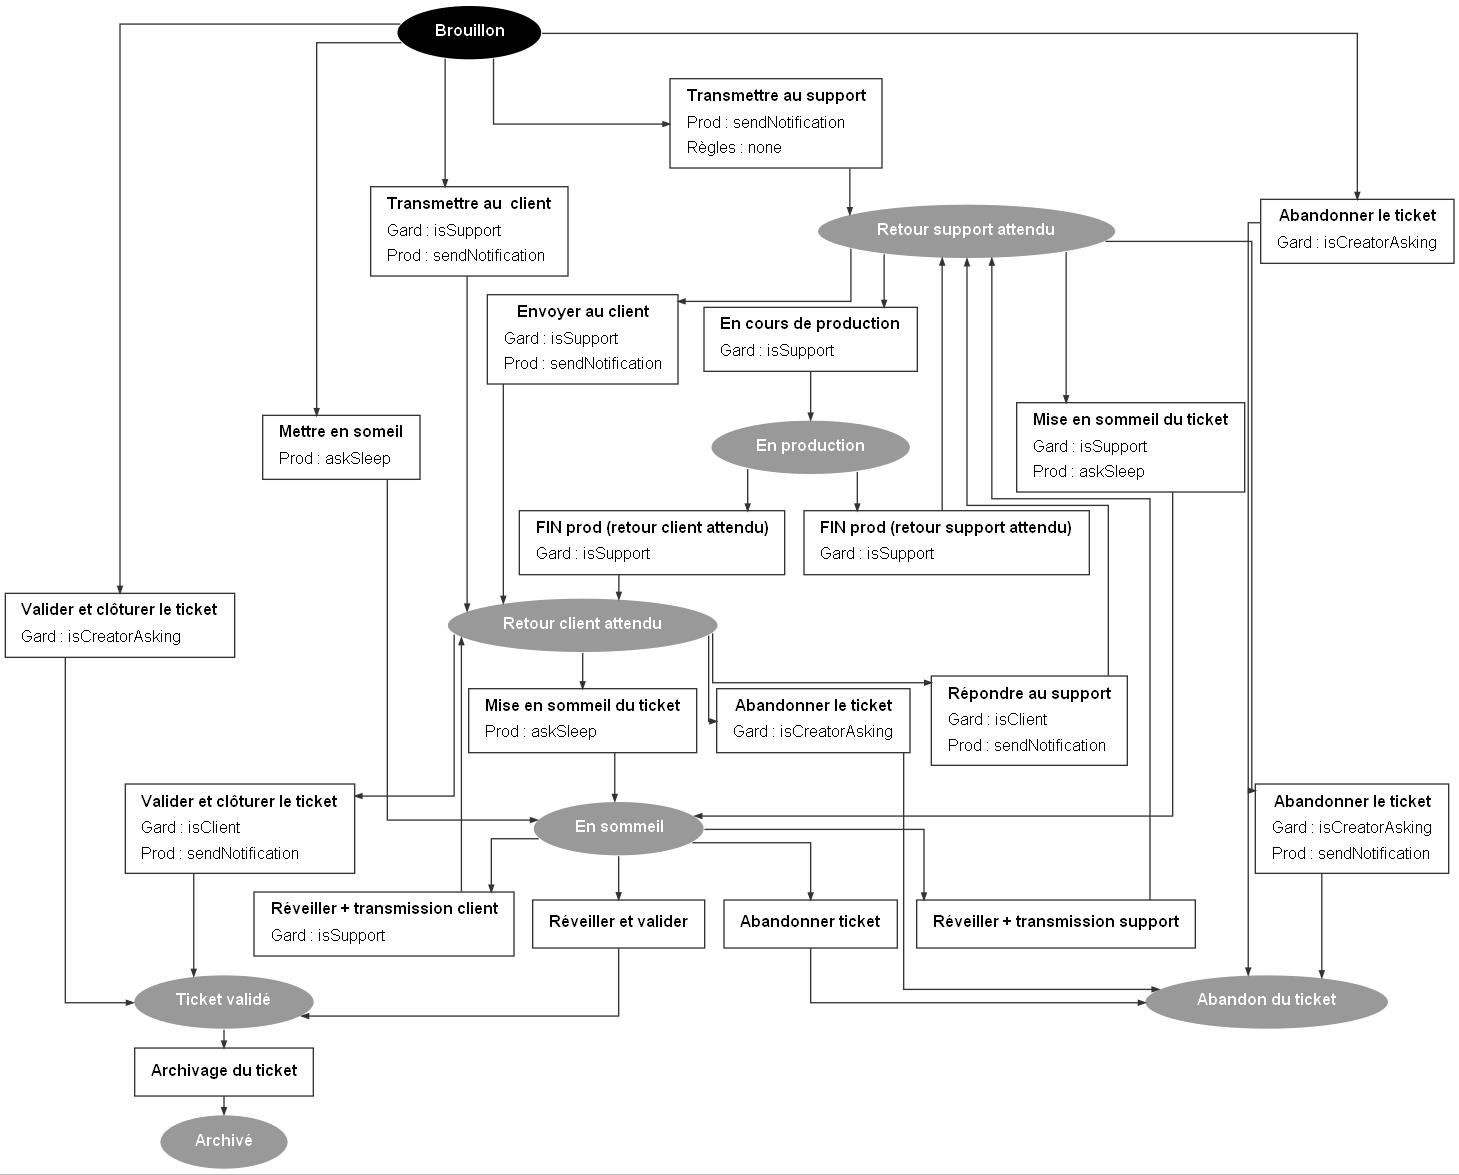
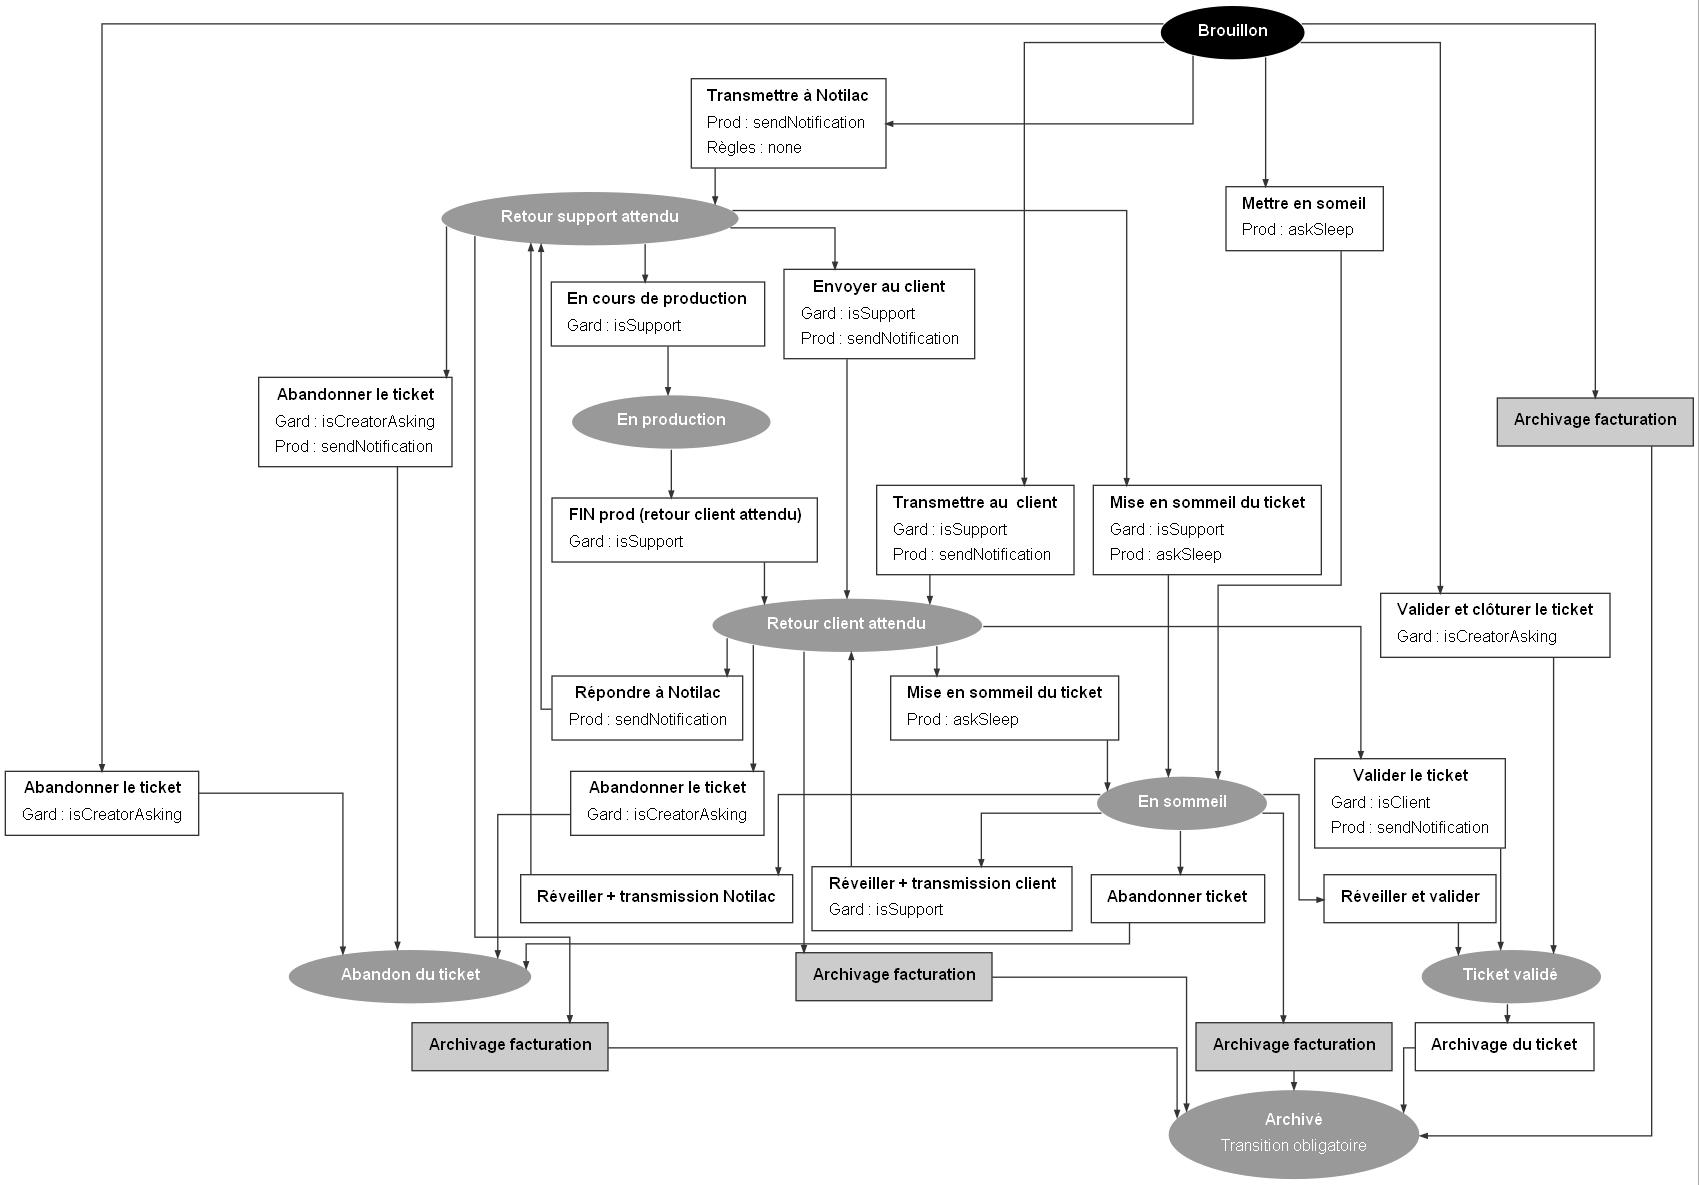
Modifications du support

diff --git a/controllers/tickets/_btns.htm b/controllers/tickets/_btns.htm
@@ -1,0 +1,7 @@
+<?php if($this->controller->formGetModel()->state =="archived"): ?>
+<button class="btn btn-secondary"
+        data-request-data="redirect:0,productorId:'<?=$modelId?>'"
+        data-request="onCreateNewFromArchived"
+        >Créer un nouveau ticket à partir de ce ticket archivé
+            </button>
+<?php endif ?>

diff --git a/controllers/ticketgroups/update.htm b/controllers/ticketgroups/update.htm
@@ -12,7 +12,7 @@
     <?= $this->formRender(['section' => 'outside']) ?>
     <?php endif ?>
     <?php if ($this->formHasPrimaryTabs()): ?>
-    <?= $this->formRender(['section' => 'primary']) ?>
+    <?= $this->formRenderPreview(['section' => 'primary']) ?>
     <?php endif ?>
 </div>
 <div class="form-buttons">

diff --git a/controllers/ticketgroups/_btns.htm b/controllers/ticketgroups/_btns.htm
@@ -1,0 +1,7 @@
+<?php if(!$this->controller->formGetModel()->is_factured): ?>
+<button class="btn btn-secondary"
+        data-request-data="redirect:0,productorId:'<?=$modelId?>'"
+        data-request="onClotureTicketGroup"
+        >Cloturer et facturer ce groupe
+            </button>
+<?php endif ?>

diff --git a/lang/fr/ticket_w.php b/lang/fr/ticket_w.php
@@ -6,14 +6,14 @@ return [
         'draft' => 'Brouillon',
         'wait_support' => 'Retour support attendu',
         'wait_managment' => 'Retour client attendu',
-        'en_cours' => 'En production',
+        'running' => 'En production',
         'validated' => 'Ticket validé',
         'sleep' => 'En sommeil',
         'archived' => 'Archivé',
         'abdn' => 'Abandon du ticket',
     ],
     'trans' => [
-        'draft_to_wait_support' => 'Transmettre au support',
+        'draft_to_wait_support' => 'Transmettre à Notilac',
         'draft_to_wait_managment' => 'Transmettre au  client',
         'draft_to_sleep' => 'Mettre en someil',
         'draft_to_abdn' => 'Abandonner le ticket',
@@ -21,18 +21,18 @@ return [
         'wait_support_to_wait_managment' => 'Envoyer au client',
         'wait_support_to_sleep' => 'Mise en sommeil du ticket',
         'wait_support_to_abdn' => 'Abandonner le ticket',
-        'wait_support_to_en_cours' => 'En cours de production',
-        'en_cours_to_wait_support' => 'FIN prod (retour support attendu)',
-        'en_cours_to_wait_managment' => 'FIN prod (retour client attendu)',
-        'wait_managment_to_wait_support' => 'Répondre au support',
-        'wait_managment_to_validated' => 'Valider et clôturer le ticket',
+        'wait_support_to_running' => 'En cours de production',
+        'running_to_wait_managment' => 'FIN prod (retour client attendu)',
+        'wait_managment_to_wait_support' => 'Répondre à Notilac',
+        'wait_managment_to_validated' => 'Valider le ticket',
         'wait_managment_to_sleep' => 'Mise en sommeil du ticket',
         'wait_managment_to_abdn' => 'Abandonner le ticket',
-        'sleep_to_wait_support' => 'Réveiller + transmission support',
+        'sleep_to_wait_support' => 'Réveiller + transmission Notilac',
         'sleep_to_wait_managment' => 'Réveiller + transmission client',
         'sleep_to_validated' => 'Réveiller et valider',
         'sleep_to_abdn' => 'Abandonner ticket',
         'validated_to_archived' => 'Archivage du ticket',
+        'to_archived_factu' => 'Archivage facturation',
     ],
     'error_message' => [
         'default' => '',

diff --git a/controllers/TicketGroups.php b/controllers/TicketGroups.php
@@ -42,9 +42,36 @@ class TicketGroups extends Controller
 
     public function listInjectRowClass($record, $value)
     {
-        if(!$this->user->hasAccess('waka.support.admin.*')) {
+        if(!$this->user->hasAccess('waka.support.admin.super')) {
             return 'nolink  disabled';
         }
+    }
+
+    public function onClotureTicketGroup() {
+        $model =  \Waka\Support\Models\TicketGroup::find($this->params[0]);
+        trace_log($model->name);
+        $countRunning = $model->tickets()->where('state', 'running')->count();
+        trace_log($countRunning);
+        trace_log($model->tickets()->where('state', 'running')->get()->toArray());
+        if($countRunning)  {
+            \Flash::error('Un ticket est en cours de production impossible de cloturer le groupe');
+             return \Redirect::refresh();
+        } 
+        foreach($model->tickets as $ticket) {
+            if($ticket->workflow_can('to_archived_factu')) {
+                trace_log('ticket a archiver et à recreer : '.$ticket->name);
+                $ticket->workflow_apply('to_archived_factu');
+                $ticket->save();
+            } else {
+                trace_log('ticket déjà  archiver : '.$ticket->name);
+            }
+        }
+        $model->is_factured = true;
+        $model->save();
+        $redirectUrl = $this->formGetRedirectUrl('update-close', $model);
+        trace_log($redirectUrl);
+        \Flash::success('groupe de tickets cloturé !');
+        return \Backend::redirect($redirectUrl);
     }
 
         //endKeep/

diff --git a/models/Ticket.php b/models/Ticket.php
@@ -11,6 +11,7 @@ use Backend\Models\User;
 class Ticket extends Model
 {
     use \Winter\Storm\Database\Traits\Validation;
+    use \Winter\Storm\Database\Traits\SimpleTree;
     use \Winter\Storm\Database\Traits\Sortable;
     use \Waka\Utils\Classes\Traits\DataSourceHelpers;
     use \Waka\Utils\Classes\Traits\WakaWorkflowTrait;
@@ -224,7 +225,7 @@ class Ticket extends Model
         if($this->state == "draft") {
             return $this->user_id;
         }
-        else if(in_array($this->state, ['wait_support', 'validated'])) {
+        else if(in_array($this->state, ['wait_support', 'validated', 'en_cours' ])) {
             return $this->support_user_id ? $this->support_user_id : Settings::getSupportUsers()[0] ?? null;
         }
         else if(in_array($this->state, ['wait_managment', 'wait_validation'])) {
@@ -298,8 +299,22 @@ class Ticket extends Model
     /**
      * OTHERS
      */
-    
 
+    public function createChildTicket() {
+        $modelCloned = $this->replicate();
+        $modelCloned->created_at = Carbon::now();
+        $modelCloned->temps = 0;
+        $modelCloned->name = $this->name.' (reprise)';
+        $modelCloned->parent_id = $this->id;
+        $modelCloned->ticket_group = null;
+        $modelCloned->first_message = "Reprise du ticket : ".$this->name;
+        if($this->state == 'archived') {
+            $modelCloned->state = 'draft';
+        }
+        trace_log($modelCloned->toArray());
+        $modelCloned->save();
+        return $modelCloned->id;
+    }
 
     /**
      * @return mixed

diff --git a/listeners/WorkflowTicketListener.php b/listeners/WorkflowTicketListener.php
@@ -21,7 +21,7 @@ class WorkflowTicketListener extends WorkflowListener
         //Evenement optionels à déclarer ici.
         //$event->listen('workflow.ticket.leave', [$this, 'onLeave']);
         //$event->listen('workflow.ticket.transition', [$this, 'onTransition']);
-        //$event->listen('workflow.ticket.enter', [$this, 'onEnter']);
+        $event->listen('workflow.ticket.enter', [$this, 'onEnter']);
     }
 
     /**
@@ -62,9 +62,19 @@ class WorkflowTicketListener extends WorkflowListener
         return $blocked;
     }
 
+    
+
     /**
      * FONCTIONS DE TRAITEMENT PEUVENT ETRE APPL DANS LES FONCTIONS CLASSIQUES
      */
+    public function createChildTicket($event, $args = null)
+    {
+        trace_log('createChildTicket');
+        
+        $model = $event->getSubject();
+        trace_log($model->name);
+        $model->createChildTicket();
+    }
 
     // public function cleanData($event, $args = null)
     // {

diff --git a/updates/create_tickets_table_u111.php b/updates/create_tickets_table_u111.php
@@ -1,0 +1,23 @@
+<?php namespace Waka\Support\Updates;
+
+use Winter\Storm\Database\Schema\Blueprint;
+use Winter\Storm\Database\Updates\Migration;
+use Schema;
+
+class CreateTicketsTableU111 extends Migration
+{
+    public function up()
+    {
+        if (!Schema::hasColumn('waka_support_tickets', 'parent_id')) {
+                Schema::table('waka_support_tickets', function (Blueprint $table) {
+                    $table->integer('parent_id')->unsigned()->nullable();
+            });
+        }
+        
+    }
+
+    public function down()
+    {
+        //
+    }
+}

diff --git a/controllers/Tickets.php b/controllers/Tickets.php
@@ -43,6 +43,12 @@ class Tickets extends Controller
         return $this->asExtension('FormController')->update($id);
     }
 
+    public function onCreateNewFromArchived() {
+        $ticket = \Waka\Support\Models\Ticket::find($this->params[0]);
+        $newId = $ticket->createChildTicket();
+        return \Redirect::to(\Backend::url('waka/support/tickets/update/'.$newId));
+    }
+
     public function onAfterSaveWorkflowJs() {
         $wfPopupAfterSave = \Session::pull('popup_afterSave');
         if(!$wfPopupAfterSave) {

diff --git a/updates/create_tickets_table.php b/updates/create_tickets_table.php
@@ -18,6 +18,8 @@ class CreateTicketsTable extends Migration
             $table->integer('user_id')->unsigned();
             $table->string('url')->nullable();
             $table->double('temps', 15, 2)->default(0);
+            //simpletree
+            $table->integer('parent_id')->unsigned()->nullable();
             //reorder
             $table->integer('sort_order')->default(0);
             $table->timestamps();

diff --git a/lang/fr/ticket.php b/lang/fr/ticket.php
@@ -15,6 +15,7 @@ return [
     'next' => 'Attente de',
     'next_message' => 'Votre message',
     'only_active' => 'Actif',
+    'parent' => 'Ticket Parent',
     'preview_name' => 'Voir ticket',
     'sb_section_a' => 'Autres',
     'sb_section_f' => 'Facturation',

diff --git a/docs/wf_ticket.md b/docs/wf_ticket.md
@@ -10,14 +10,14 @@
 * **Brouillon** | code : draft
 * **Retour support attendu** | code : wait_support
 * **Retour client attendu** | code : wait_managment
-* **En production** | code : en_cours
+* **En production** | code : running
 * **Ticket validé** | code : validated
 * **En sommeil** | code : sleep
 * **Archivé** | code : archived
 * **Abandon du ticket** | code : abdn
 
 ## Liste des transitions
-* **Transmettre au support** | code : draft_to_wait_support
+* **Transmettre à Notilac** | code : draft_to_wait_support
     * Appliquer un jeux de contrôle : none
     * Liste des fonctions 
         *  sendNotification | type : prod  |  Arguments : waka.support::new_ticket, support  | description : Envoyer une notification
@@ -46,20 +46,16 @@
     * Liste des fonctions 
         *  sendNotification | type : prod  |  Arguments : waka.support::new_ticket, all  | description : Envoyer une notification
         *  isCreatorAsking | type : gard  | description : Est-ce le créateur de la tâche
-* **En cours de production** | code : wait_support_to_en_cours
+* **En cours de production** | code : wait_support_to_running
     * Liste des fonctions 
         *  isSupport | type : gard  | description : Est dans l&#039;équipe support
-* **FIN prod (retour support attendu)** | code : en_cours_to_wait_support
+* **FIN prod (retour client attendu)** | code : running_to_wait_managment
     * Liste des fonctions 
         *  isSupport | type : gard  | description : Est dans l&#039;équipe support
-* **FIN prod (retour client attendu)** | code : en_cours_to_wait_managment
-    * Liste des fonctions 
-        *  isSupport | type : gard  | description : Est dans l&#039;équipe support
-* **Répondre au support** | code : wait_managment_to_wait_support
+* **Répondre à Notilac** | code : wait_managment_to_wait_support
     * Liste des fonctions 
         *  sendNotification | type : prod  |  Arguments : waka.support::new_ticket, support  | description : Envoyer une notification
-        *  isClient | type : gard  | description : Est dans l&#039;équipe client
-* **Valider et clôturer le ticket** | code : wait_managment_to_validated
+* **Valider le ticket** | code : wait_managment_to_validated
     * Liste des fonctions 
         *  sendNotification | type : prod  |  Arguments : waka.support::new_ticket, support  | description : Envoyer une notification
         *  isClient | type : gard  | description : Est dans l&#039;équipe client
@@ -69,13 +65,16 @@
 * **Abandonner le ticket** | code : wait_managment_to_abdn
     * Liste des fonctions 
         *  isCreatorAsking | type : gard  | description : Est-ce le créateur de la tâche
-* **Réveiller + transmission support** | code : sleep_to_wait_support
+* **Réveiller + transmission Notilac** | code : sleep_to_wait_support
 * **Réveiller + transmission client** | code : sleep_to_wait_managment
     * Liste des fonctions 
         *  isSupport | type : gard  | description : Est dans l&#039;équipe support
 * **Réveiller et valider** | code : sleep_to_validated
 * **Abandonner ticket** | code : sleep_to_abdn
 * **Archivage du ticket** | code : validated_to_archived
+* **Archivage facturation** | code : to_archived_factu
+    * Liste des fonctions 
+        *  createChildTicket | type : trait_onEnter  | description : Fonction qui va créer un ticket enfants
 
 ## Les jeux de permissions des champs
 * default: 
